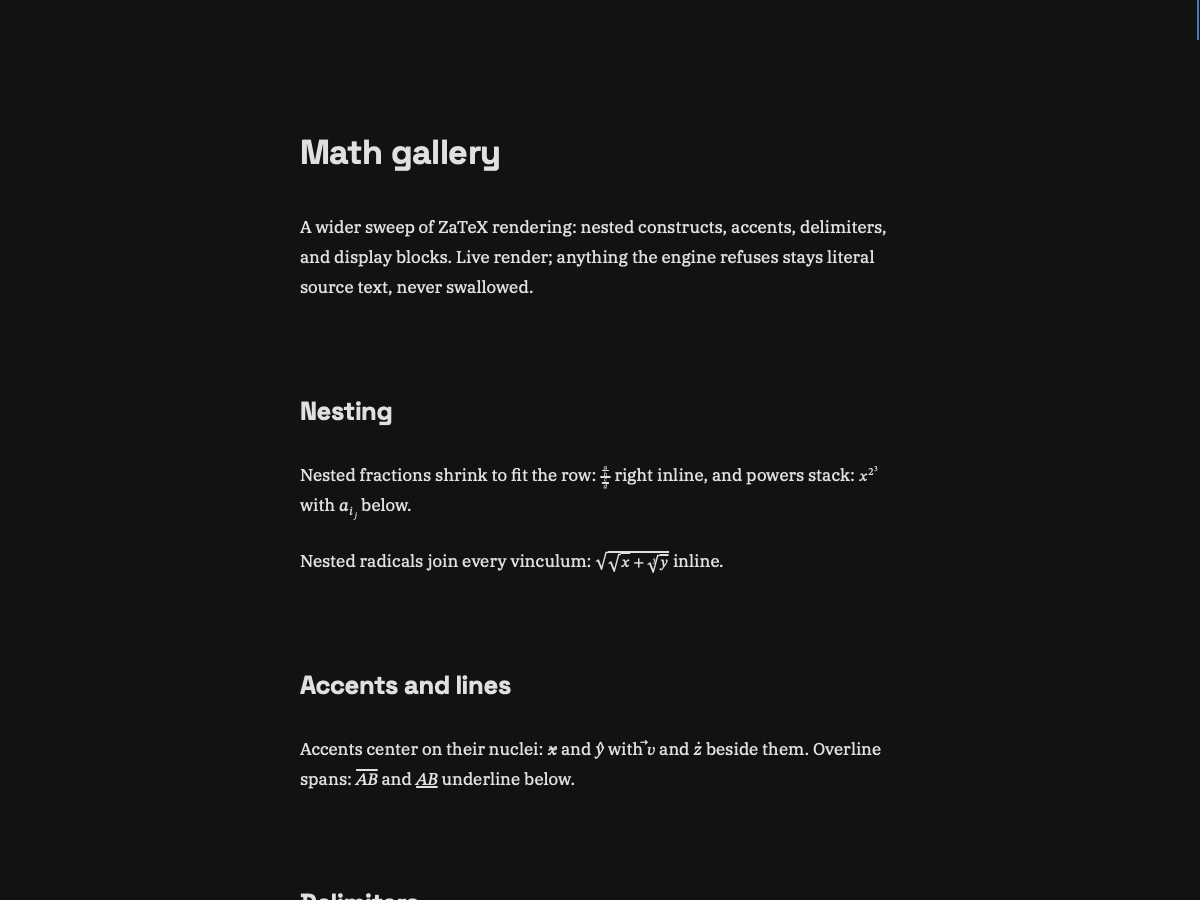
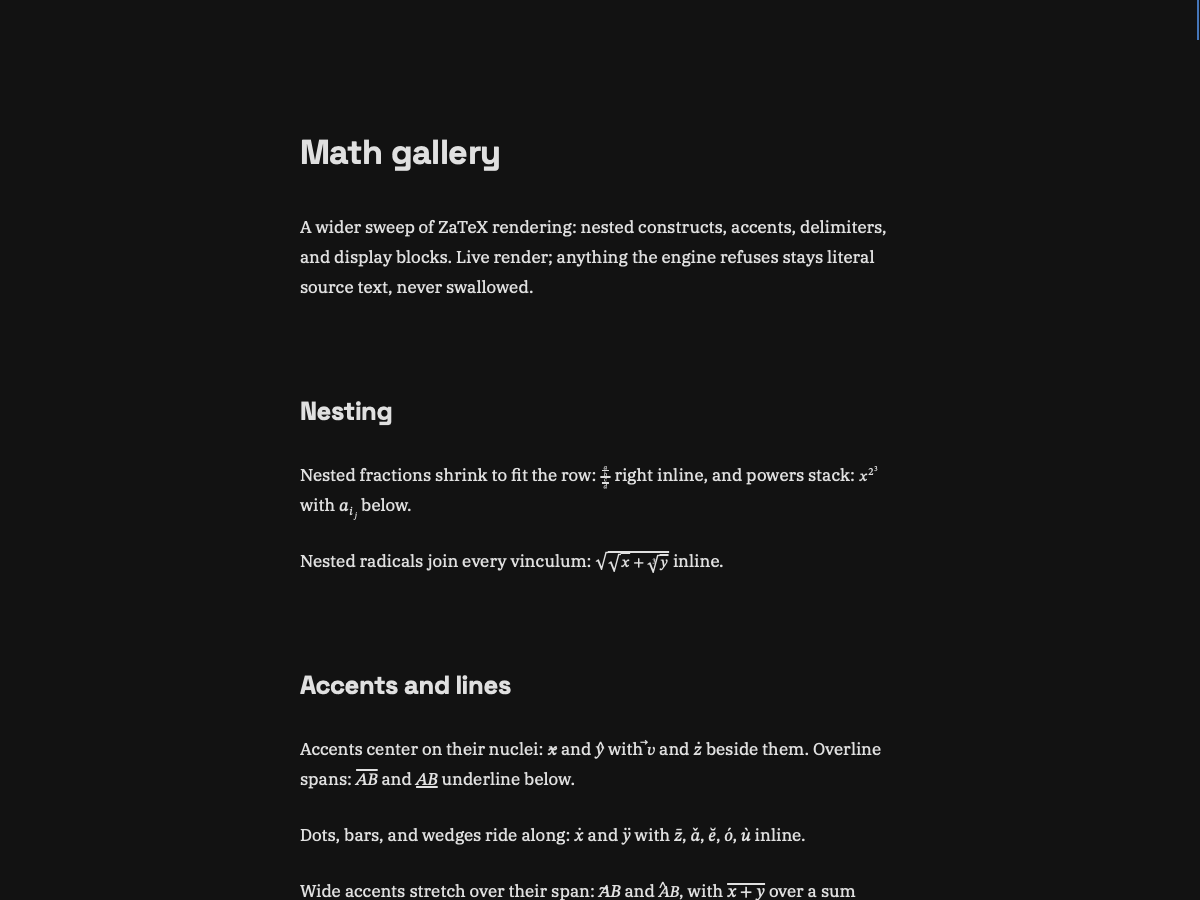
ZaTeX accents: MATH-table italic corrections; gallery sweep; plugin diet
Backend (src/platform/macos_zatex.m): supply italic_correction from the
STIX Two Math MATH table so accents center on slanted nuclei (x10 y15
v15 z10 M45 per1000, fontTools-oracle verified); the engine moves
exactly the accent run by trunc(ic/2). Extents/ink/variant/kern paths
unchanged.

Gallery (test_cases/math_gallery.md): dots/bars/wedges, wide accents,
capital-skew cases, scripts on accented nuclei, angle/floor
delimiters, display accent line; suite shoots 4 section-seated frames
(new math_gallery_delimiters.png). Screenshots regenerated live.

Diet (macos_plugin.m, macos_zatex.m): plugin account 13018 -> 12222
bytes (budget 12288; HEAD-true was 12250 with 38B headroom). which
precheck removal, outcome-guard fold, spawn loop fold, slot-clear
removal, font-fallback removal, UPM-1000 direct, draw single-batch.
Tests 529/529, gate PASS, accents frame re-verified pixel-identical.

docs/spec.md notes italic corrections as supplied.

Changed region(s): [[0.2467, 0.9644, 0.7092, 1.0], [0.2467, 0.9022, 0.6783, 0.9333]]

diff --git a/src/platform/macos_zatex.m b/src/platform/macos_zatex.m
@@ -20,9 +20,10 @@
 //   math coverage, no bundled fonts).
 // - Optional hooks: true glyph extents are supplied (CoreText, v4 C
 //   surface) so box geometry — the sqrt junction included — uses real
-//   outlines; ink bounds stay NULL (v3 start, measured 2px shy of full
-//   overlap) with variants and italic/kerning corrections: the core is
-//   correct without them (deterministic fallbacks). Big-delimiter
+//   outlines, and MATH-table italic corrections are supplied so accents
+//   center on slanted nuclei; ink bounds stay NULL (v3 start, measured
+//   2px shy of full overlap) with variants and kerning corrections: the
+//   core is correct without them (deterministic fallbacks). Big-delimiter
 //   growth is the known v1 fidelity gap, documented in docs/spec.md.
 // - The frozen C surface projects filled rects only (cabi.zig): diagonal
 //   `cancel` strikes never arrive (skipped engine-side, never misdrawn)
@@ -166,19 +167,6 @@ static CTFontRef zatex_font = NULL;
 static void zatex_ensure_font(void) {
     if (zatex_font) return;
     zatex_font = CTFontCreateWithName(CFSTR("STIXTwoMath"), ZATEX_FONT_PX, NULL);
-    if (!zatex_font) {
-        CFStringRef path = CFSTR("/System/Library/Fonts/Supplemental/STIXTwoMath.otf");
-        CFURLRef url = CFURLCreateWithFileSystemPath(NULL, path, kCFURLPOSIXPathStyle, false);
-        if (url) {
-            CFArrayRef ds = CTFontManagerCreateFontDescriptorsFromURL(url);
-            if (ds && CFArrayGetCount(ds) > 0) {
-                CTFontDescriptorRef d = (CTFontDescriptorRef)CFArrayGetValueAtIndex(ds, 0);
-                zatex_font = CTFontCreateWithFontDescriptor(d, ZATEX_FONT_PX, NULL);
-                CFRelease(ds);
-            }
-            CFRelease(url);
-        }
-    }
 }
 
 // One UTF-8 codepoint; invalid bytes yield U+FFFD (missing glyph downstream).
@@ -287,11 +275,91 @@ static ZatexExtents zatex_extents(const void *ctx, uint16_t font, uint16_t glyph
     return z;
 }
 
+// MATH-table italic corrections (accent centering, issue #350 review).
+// STIX Two Math ships UPM 1000, so raw values are already thousandths.
+static CFDataRef zatex_math_data = NULL;
+static const uint8_t *zatex_math_bytes = NULL;
+static size_t zatex_math_len = 0;
+static size_t zatex_math_ici = 0;
+static int zatex_math_ready = 0;
+
+static uint32_t zatex_u16(const uint8_t *p) {
+    return (uint32_t)(((uint32_t)p[0] << 8) | p[1]);
+}
+
+static void zatex_ensure_math_table(void) {
+    if (zatex_math_ready) return;
+    zatex_math_ready = 1;
+    zatex_ensure_font();
+    if (!zatex_font) return;
+    CFDataRef d = CTFontCopyTable(zatex_font, (CTFontTableTag)'MATH', 0);
+    if (!d) return;
+    size_t n = (size_t)CFDataGetLength(d);
+    const uint8_t *b = CFDataGetBytePtr(d);
+    size_t gi = 0, ic_rel = 0, sub = 0;
+    if (!b || n < 10) goto fail;
+    gi = ((size_t)b[6] << 8) | b[7];
+    if (gi == 0 || gi + 8 > n) goto fail;
+    ic_rel = ((size_t)b[gi] << 8) | b[gi + 1];
+    if (ic_rel == 0) goto fail;
+    sub = gi + ic_rel;
+    if (sub + 4 > n) goto fail;
+    zatex_math_data = d;
+    zatex_math_bytes = b;
+    zatex_math_len = n;
+    zatex_math_ici = sub;
+    return;
+fail:
+    CFRelease(d);
+}
+
+static int32_t zatex_italic_correction(const void *ctx, uint16_t font, uint16_t glyph) {
+    (void)ctx;
+    (void)font;
+    if (glyph == 0) return 0;
+    zatex_ensure_math_table();
+    if (!zatex_math_bytes) return 0;
+    const uint8_t *b = zatex_math_bytes;
+    size_t n = zatex_math_len, sub = zatex_math_ici;
+    size_t cov = sub + zatex_u16(b + sub);
+    size_t count = zatex_u16(b + sub + 2);
+    if (cov + 4 > n) return 0;
+    uint32_t fmt = zatex_u16(b + cov);
+    uint32_t nn = zatex_u16(b + cov + 2);
+    uint32_t idx = UINT32_MAX;
+    if (fmt == 1) {
+        if (cov + 4 + (size_t)nn * 2 > n) return 0;
+        for (uint32_t i = 0; i < nn; i++) {
+            if (zatex_u16(b + cov + 4 + (size_t)i * 2) == glyph) {
+                idx = i;
+                break;
+            }
+        }
+    } else if (fmt == 2) {
+        if (cov + 4 + (size_t)nn * 6 > n) return 0;
+        for (uint32_t i = 0; i < nn; i++) {
+            uint32_t first = zatex_u16(b + cov + 4 + (size_t)i * 6);
+            uint32_t last = zatex_u16(b + cov + 6 + (size_t)i * 6);
+            uint32_t sci = zatex_u16(b + cov + 8 + (size_t)i * 6);
+            if (glyph >= first && glyph <= last) {
+                idx = sci + ((uint32_t)glyph - first);
+                break;
+            }
+        }
+    } else {
+        return 0;
+    }
+    if (idx == UINT32_MAX || idx >= count) return 0;
+    size_t rec = sub + 4 + (size_t)idx * 4;
+    if (rec + 2 > n) return 0;
+    return (int32_t)(int16_t)zatex_u16(b + rec);
+}
+
 static const ZatexMetrics zatex_metrics = {
-    NULL, zatex_glyph_id, zatex_advance, NULL, NULL, NULL, NULL,
+    NULL, zatex_glyph_id, zatex_advance, NULL, NULL, zatex_italic_correction, NULL,
     // ink_bounds deliberately NULL (v3 start): extents alone close the
     // sqrt junction to 2px (measured render diff); wiring ink buys
-    // nothing visible at current budgets — revisit with accent work.
+    // nothing visible at current budgets.
     zatex_extents, NULL,
 };
 
@@ -375,7 +443,8 @@ void platform_draw_math(const char *tex, int tex_len, int display, float font_px
     // 100/font_px. Offsets accumulate the SAME integer advances the
     // engine laid out with (units, exact), converted once to px, so ink
     // lands exactly where layout put it.
-    static CGPoint zatex_pos[256];
+    static CGPoint zatex_pos[4096];
+    static CGGlyph zatex_gbuf[4096];
     for (uint32_t i = 0; i < lo.nruns; i++) {
         ZatexRun *rn = &zatex_runs[i];
         if (rn->glyph_count == 0 || rn->glyph_start + rn->glyph_count > ZATEX_GLYPHS_CAP) continue;
@@ -390,20 +459,13 @@ void platform_draw_math(const char *tex, int tex_len, int display, float font_px
         CGContextSetTextPosition(ctx, 0, 0);
         uint32_t n = rn->glyph_count;
         int64_t acc = 0;
-        uint32_t done = 0;
-        while (done < n) {
-            uint32_t m = n - done;
-            if (m > 256) m = 256;
-            CGGlyph gbuf[256];
-            for (uint32_t k = 0; k < m; k++) {
-                uint16_t g = zatex_glyphs[rn->glyph_start + done + k];
-                gbuf[k] = (CGGlyph)g;
-                zatex_pos[k] = CGPointMake((float)(acc * s_run), 0);
-                acc += zatex_advance(NULL, rn->font_id, g);
-            }
-            CTFontDrawGlyphs(rf, gbuf, zatex_pos, (CFIndex)m, ctx);
-            done += m;
+        for (uint32_t k = 0; k < n; k++) {
+            uint16_t g = zatex_glyphs[rn->glyph_start + k];
+            zatex_gbuf[k] = (CGGlyph)g;
+            zatex_pos[k] = CGPointMake((float)(acc * s_run), 0);
+            acc += zatex_advance(NULL, rn->font_id, g);
         }
+        CTFontDrawGlyphs(rf, zatex_gbuf, zatex_pos, (CFIndex)n, ctx);
         CGContextRestoreGState(ctx);
         CFRelease(rf);
     }

diff --git a/src/platform/macos_plugin.m b/src/platform/macos_plugin.m
@@ -59,7 +59,7 @@ static void plugin_copy512(char dst[512], const char* src) {
 }
 static void plugin_hist_record(const char* outfile, int ok) {
     plugin_copy512(plugin_hist_out[plugin_hist_pos], outfile);
-    plugin_hist_ok[plugin_hist_pos] = ok ? 1 : 0;
+    plugin_hist_ok[plugin_hist_pos] = ok;
     plugin_hist_pos = (plugin_hist_pos + 1) % PLUGIN_HIST;
 }
 // Outcome query for Task 5: 1 clean render (exit 0 + outfile validated),
@@ -68,7 +68,7 @@ static void plugin_hist_record(const char* outfile, int ok) {
 int pluginOutcomeFor(const char* outfile) {
     if (!outfile || !*outfile) return -1;
     for (int i = 0; i < PLUGIN_HIST; i++)
-        if (plugin_hist_out[i][0] && strcmp(plugin_hist_out[i], outfile) == 0)
+        if (strcmp(plugin_hist_out[i], outfile) == 0)
             return plugin_hist_ok[i];
     return -1;
 }
@@ -79,23 +79,11 @@ int pluginOutcomeFor(const char* outfile) {
 static int plugin_spawnq(const char* file, char* const argv[], pid_t* pid) {
     posix_spawn_file_actions_t actions;
     posix_spawn_file_actions_init(&actions);
-    posix_spawn_file_actions_addopen(&actions, 1, "/dev/null", O_WRONLY, 0);
-    posix_spawn_file_actions_addopen(&actions, 2, "/dev/null", O_WRONLY, 0);
+    for (int fd = 1; fd <= 2; fd++)
+        posix_spawn_file_actions_addopen(&actions, fd, "/dev/null", O_WRONLY, 0);
     int rc = posix_spawnp(pid, file, &actions, NULL, argv, *_NSGetEnviron());
     posix_spawn_file_actions_destroy(&actions);
     return rc;
-}
-
-// `which` semantics for a renderer: slash paths are checked directly,
-// bare names must resolve on PATH. 1 when executable, else 0.
-static int plugin_which_ok(const char* renderer) {
-    if (strchr(renderer, '/') != NULL) return access(renderer, X_OK) == 0 ? 1 : 0;
-    pid_t pid = 0;
-    char* const argv[] = { (char*)"which", (char*)renderer, NULL };
-    if (plugin_spawnq("/usr/bin/which", argv, &pid) != 0) return 0;
-    int status = 0;
-    if (waitpid(pid, &status, 0) < 0) return 0;
-    return status == 0 ? 1 : 0;
 }
 
 // Non-blocking launch of `renderer srcfile outfile`. Returns 1 active
@@ -109,10 +97,6 @@ int launchPluginRender(const char* renderer, const char* srcfile, const char* ou
         // format call pulls _fwrite into the binary for one line. stderr
         // is unbuffered, so bytes hit the fd in order either way.
         (void)write(STDERR_FILENO, "read: plugin render path too long\n", sizeof("read: plugin render path too long\n") - 1);
-        return -1;
-    }
-    if (!plugin_which_ok(renderer)) {
-        fprintf(stderr, "read: plugin renderer missing: %s\n", renderer);
         return -1;
     }
     int slot = -1;
@@ -156,8 +140,6 @@ int pollPluginCompletions(void) {
         plugin_pid[i] = 0;
         drained++;
         unlink(plugin_src[i]);
-        plugin_src[i][0] = '\0';
-        plugin_out[i][0] = '\0';
     }
     return drained;
 }

diff --git a/docs/spec.md b/docs/spec.md
@@ -34,8 +34,10 @@ HTML rendering is intentionally unsupported. Numbers for speed and size live onl
 All formulae lay out through the ZaTeX engine, loaded at runtime from
 `libzatex.dylib` (app-bundle `Resources/` or `/usr/local/lib`) via `dlopen`
 — never linked, so the binary keeps its budgets with the engine absent.
-Metrics come from the system STIX Two Math font; optional engine refinements
-(taller delimiter variants, italic/kerning corrections) are unwired in v1. The frozen C surface drops per-run color (ambient paint)
+Metrics come from the system STIX Two Math font; MATH-table italic
+corrections are supplied so accents center on slanted nuclei, while the
+remaining refinements (taller delimiter variants, kerning corrections)
+stay unwired in v1. The frozen C surface drops per-run color (ambient paint)
 and skips diagonal strikes (never misdrawn).
 
 Fallback is sourcetelling, never silent: engine absent or refusing (invalid
@@ -43,8 +45,8 @@ input, over 64 KiB, too deep, expansion limit) renders fences as plain code
 cards and islands as literal text, byte-identical to the pre-math reader.
 True glyph extents feed the engine over the v4 C surface (sqrt junction
 included; ink bounds stay NULL — measured 2px shy of full overlap);
-taller delimiter variants and italic/kerning corrections stay unwired
-in v1.
+MATH-table italic corrections are supplied (accent centering); taller
+delimiter variants and kerning corrections stay unwired in v1.
 v1 limits: inline boxes taller than one row shrink to fit it
 (mid-line display included — never an overlap, never a paragraph
 break); math is not selectable, not

diff --git a/test_cases/math_gallery.md b/test_cases/math_gallery.md
@@ -17,6 +17,15 @@ Accents center on their nuclei: $\tilde{x}$ and $\hat{y}$ with $\vec{v}$
 and $\dot{z}$ beside them. Overline spans: $\overline{AB}$ and
 $\underline{AB}$ underline below.
 
+Dots, bars, and wedges ride along: $\dot{x}$ and $\ddot{y}$ with $\bar{z}$,
+$\check{a}$, $\breve{e}$, $\acute{o}$, $\grave{u}$ inline.
+
+Wide accents stretch over their span: $\widetilde{AB}$ and $\widehat{AB}$,
+with $\overline{x + y}$ over a sum beside them.
+
+Accents on capitals take the full skew: $\hat{M}$ and $\tilde{M}$ inline,
+and scripts stack on accented nuclei: $\tilde{x}^2$ with $\hat{y}_i$ below.
+
 ## Delimiters
 
 Fences wrap tall content:
@@ -25,9 +34,14 @@ $$\left(\frac{a}{b}\right) + \left[ x^2 \right] + |z|$$
 
 Binomial coefficients: $\binom{n}{k} = \frac{n!}{k!(n-k)!}$ inline.
 
+Angle brackets and floors scale too: $\left\langle x \right\rangle$ with
+$\left\lfloor \frac{a}{b} \right\rfloor$ inline.
+
 ## Display blocks
 
 $$\sum_{k=1}^{n} k^2 = \frac{n(n+1)(2n+1)}{6}$$
+
+$$\tilde{x} + \hat{y} = \vec{v}$$
 
 $$\lim_{x \to 0} \frac{\sin x}{x} = 1 \qquad \int_0^\infty e^{-x^2}\,dx = \sqrt{\pi}$$
 
